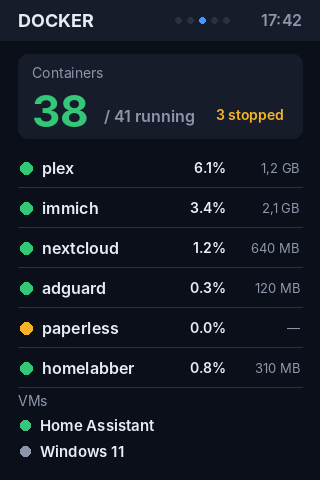
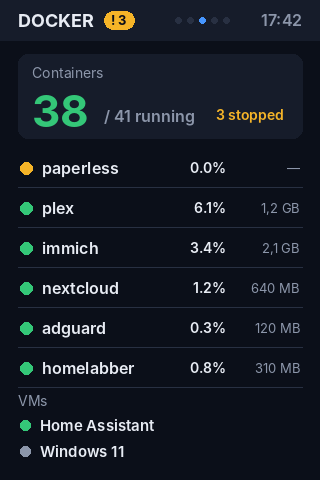
Ekrany LCD: alerty krytyczne z pierwszeństwem, awarie na górze list
- Alert krytyczny barwi nagłówek każdego ekranu na czerwono i pokazuje licznik;
  ostrzeżenia pokazują żółty licznik.
- Ekran Alerty: krytyczne zawsze na górze, wyróżnione, z dopiskiem o przypięciu.
- Dyski, kontenery i VM z awarią na górze listy (opcja sortuj_awarie, domyślnie włączona).
- Makiety: warianty z alertem krytycznym.

Claude-Session: https://claude.ai/code/session_01KdmNeRTRFZRJ18TRbeokR1

diff --git a/app/ekrany/rysuj.py b/app/ekrany/rysuj.py
@@ -30,6 +30,7 @@ TEKSTY = {
            "dzialaja": "działa", "zatrzymane": "zatrzymane", "maszyny": "Maszyny VM",
            "postep": "Postęp", "predkosc": "Prędkość", "koniec": "Koniec za",
            "bledy": "Błędy", "brak_alertow": "Wszystko w porządku", "dni": "d",
+           "krytyczne": "KRYTYCZNY", "przypiety": "Ekran zostaje do usunięcia problemu",
            "wolne": "wolne", "z": "z"},
     "en": {"system": "SYSTEM", "dyski": "DISKS", "docker": "DOCKER", "parity": "PARITY",
            "alerty": "ALERTS", "cpu": "CPU", "ram": "RAM", "swap": "SWAP", "temp": "Temp.",
@@ -39,6 +40,7 @@ TEKSTY = {
            "dzialaja": "running", "zatrzymane": "stopped", "maszyny": "VMs",
            "postep": "Progress", "predkosc": "Speed", "koniec": "Finishes in",
            "bledy": "Errors", "brak_alertow": "All good", "dni": "d",
+           "krytyczne": "CRITICAL", "przypiety": "Stays on until the problem is fixed",
            "wolne": "free", "z": "of"},
 }
 
@@ -62,6 +64,14 @@ PRZYKLADOWE_DANE = {
                ("uwaga", "SMART Disk 3", "realokowane sektory: 8")],
 }
 
+# Wariant z alertem krytycznym (makieta zachowania priorytetowego).
+PRZYKLADOWE_DANE_KRYTYCZNE = dict(PRZYKLADOWE_DANE, alerty=[
+    ("alarm", "Disk 2: wyłączony", "usunięty z array · 19:28"),
+    ("uwaga", "Disk 3: 47°C", "próg 45°C"),
+    ("uwaga", "paperless", "zatrzymany 14:05"),
+    ("uwaga", "SMART Disk 3", "realokowane sektory: 8"),
+])
+
 
 @lru_cache(maxsize=64)
 def font(rozmiar, waga="Regular"):
@@ -77,14 +87,46 @@ def kolor_progu(wartosc, uwaga, alarm):
     return KOLORY["alarm"] if wartosc >= alarm else KOLORY["uwaga"] if wartosc >= uwaga else KOLORY["ok"]
 
 
+WAGA_STANU = {"alarm": 0, "uwaga": 1}
+
+
+def problemy_na_gorze(lista, indeks_stanu, dane):
+    """Gdy włączone (domyślnie), elementy z awarią idą na górę: najpierw alarm, potem uwaga.
+    Sortowanie stabilne, więc reszta zostaje w kolejności z ustawień."""
+    if not dane.get("sortuj_awarie", True):
+        return list(lista)
+    return sorted(lista, key=lambda e: WAGA_STANU.get(e[indeks_stanu], 2))
+
+
+def licznik_alertow(dane):
+    alerty = dane.get("alerty") or []
+    return (sum(1 for a in alerty if a[0] == "alarm"), sum(1 for a in alerty if a[0] == "uwaga"))
+
+
 def naglowek(d, tytul, indeks, dane):
-    d.rectangle((0, 0, W, 40), fill=KOLORY["karta"])
-    d.text((M, 20), tytul, font=font(18, "Bold"), fill=KOLORY["tekst"], anchor="lm")
-    d.text((W - M, 20), dane["godzina"], font=font(16, "SemiBold"), fill=KOLORY["szary"], anchor="rm")
+    krytyczne, ostrzezenia = licznik_alertow(dane)
+    # Alert krytyczny barwi nagłówek każdego ekranu na czerwono.
+    tlo = KOLORY["alarm"] if krytyczne else KOLORY["karta"]
+    d.rectangle((0, 0, W, 40), fill=tlo)
+    f = font(18, "Bold")
+    d.text((M, 20), tytul, font=f, fill=KOLORY["tekst"], anchor="lm")
+    d.text((W - M, 20), dane["godzina"], font=font(16, "SemiBold"),
+           fill=KOLORY["tekst"] if krytyczne else KOLORY["szary"], anchor="rm")
     # kropki widoków (który ekran z pięciu)
     for i in range(5):
         x = W // 2 + 18 + i * 12
-        d.ellipse((x - 3, 17, x + 3, 23), fill=KOLORY["akcent"] if i == indeks else KOLORY["linia"])
+        if krytyczne:
+            kolor = KOLORY["tekst"] if i == indeks else (200, 90, 90)
+        else:
+            kolor = KOLORY["akcent"] if i == indeks else KOLORY["linia"]
+        d.ellipse((x - 3, 17, x + 3, 23), fill=kolor)
+    # Licznik: biały z liczbą krytycznych albo żółty z liczbą ostrzeżeń.
+    if krytyczne or ostrzezenia:
+        x0 = M + d.textlength(tytul, font=f) + 10
+        tekst = f"! {krytyczne or ostrzezenia}"
+        szer = d.textlength(tekst, font=font(13, "Bold")) + 14
+        d.rounded_rectangle((x0, 11, x0 + szer, 29), radius=9, fill=KOLORY["tekst"] if krytyczne else KOLORY["uwaga"])
+        d.text((x0 + szer / 2, 20), tekst, font=font(13, "Bold"), fill=KOLORY["alarm"] if krytyczne else KOLORY["tlo"], anchor="mm")
 
 
 def pasek(d, x, y, szer, wys, procent, kolor):
@@ -184,7 +226,7 @@ def ekran_dyski(t, dane):
     aktywne = sum(1 for x in dane["dyski"] if x[3])
     d.text((M, 222), f"{aktywne} {t['aktywne']} · {len(dane['dyski']) - aktywne} {t['uspione']}",
            font=font(13), fill=KOLORY["szary"])
-    for i, (nazwa, temp, smart, aktywny) in enumerate(dane["dyski"]):
+    for i, (nazwa, temp, smart, aktywny) in enumerate(problemy_na_gorze(dane["dyski"], 2, dane)):
         y = 240 + i * 36
         d.line((M, y + 34, W - M, y + 34), fill=KOLORY["linia"])
         d.ellipse((M + 2, y + 11, M + 14, y + 23), fill=KOLORY[smart] if aktywny else KOLORY["linia"])
@@ -207,7 +249,7 @@ def ekran_docker(t, dane):
     d.text((M + 14, 84), str(dz), font=font(44, "Bold"), fill=KOLORY["ok"])
     d.text((M + 86, 106), f"/ {wsz} {t['dzialaja']}", font=font(16, "SemiBold"), fill=KOLORY["szary"])
     d.text((W - 2 * M, 106), f"{wsz - dz} {t['zatrzymane']}", font=font(14, "SemiBold"), fill=KOLORY["uwaga"], anchor="ra")
-    for i, (nazwa, stan, cpu, ram) in enumerate(dane["kontenery"]):
+    for i, (nazwa, stan, cpu, ram) in enumerate(problemy_na_gorze(dane["kontenery"], 1, dane)):
         y = 150 + i * 40
         d.line((M, y + 37, W - M, y + 37), fill=KOLORY["linia"])
         d.ellipse((M + 2, y + 12, M + 14, y + 24), fill=KOLORY[stan])
@@ -216,7 +258,7 @@ def ekran_docker(t, dane):
         d.text((W - M - 76, y + 18), f"{liczba(cpu, t['_j'])}%", font=font(14, "SemiBold"), fill=KOLORY["tekst"], anchor="rm")
     y = 392
     d.text((M, y), t["maszyny"], font=font(14), fill=KOLORY["szary"])
-    for i, (nazwa, stan) in enumerate(dane["vm"]):
+    for i, (nazwa, stan) in enumerate(problemy_na_gorze(dane["vm"], 1, dane)):
         yy = y + 24 + i * 26
         d.ellipse((M + 2, yy + 4, M + 12, yy + 14), fill=KOLORY[stan])
         d.text((M + 22, yy + 9), nazwa, font=font(15, "SemiBold"), fill=KOLORY["tekst"], anchor="lm")
@@ -242,18 +284,31 @@ def ekran_parity(t, dane):
 
 def ekran_alerty(t, dane, puste=False):
     img = Image.new("RGB", (W, H), KOLORY["tlo"]); d = ImageDraw.Draw(img)
-    naglowek(d, t["alerty"], 4, dane)
+    naglowek(d, t["alerty"], 4, dane if not puste else dict(dane, alerty=[]))
     if puste:
         d.ellipse((W // 2 - 50, 170, W // 2 + 50, 270), outline=KOLORY["ok"], width=8)
         d.line([(W // 2 - 24, 222), (W // 2 - 6, 240), (W // 2 + 26, 204)], fill=KOLORY["ok"], width=9)
         d.text((W // 2, 300), t["brak_alertow"], font=font(20, "SemiBold"), fill=KOLORY["tekst"], anchor="mm")
         return img
-    for i, (poziom, tytul, opis) in enumerate(dane["alerty"]):
-        y = 56 + i * 82
-        karta(d, M, y, W - 2 * M, 72)
-        d.rounded_rectangle((M, y, M + 8, y + 72), radius=4, fill=KOLORY[poziom])
-        d.text((M + 20, y + 14), tytul, font=font(19, "Bold"), fill=KOLORY[poziom])
-        d.text((M + 20, y + 44), opis, font=font(14), fill=KOLORY["szary"])
+    # Krytyczne zawsze na górze, potem ostrzeżenia; mieszczą się 4 karty.
+    alerty = sorted(dane["alerty"], key=lambda a: 0 if a[0] == "alarm" else 1)[:4]
+    krytyczne = any(a[0] == "alarm" for a in alerty)
+    y = 54
+    for poziom, tytul, opis in alerty:
+        wys = 86 if poziom == "alarm" else 72
+        if poziom == "alarm":
+            d.rounded_rectangle((M, y, W - M, y + wys), radius=10, fill=(64, 18, 22), outline=KOLORY["alarm"], width=2)
+            d.text((M + 14, y + 12), t["krytyczne"], font=font(11, "Bold"), fill=KOLORY["alarm"])
+            d.text((M + 14, y + 28), tytul, font=font(20, "Bold"), fill=KOLORY["tekst"])
+            d.text((M + 14, y + 58), opis, font=font(14), fill=(230, 180, 180))
+        else:
+            karta(d, M, y, W - 2 * M, wys)
+            d.rounded_rectangle((M, y, M + 8, y + wys), radius=4, fill=KOLORY[poziom])
+            d.text((M + 20, y + 14), tytul, font=font(19, "Bold"), fill=KOLORY[poziom])
+            d.text((M + 20, y + 44), opis, font=font(14), fill=KOLORY["szary"])
+        y += wys + 8
+    if krytyczne:
+        d.text((W // 2, H - M - 6), t["przypiety"], font=font(12, "SemiBold"), fill=KOLORY["szary"], anchor="mm")
     return img
 
 
@@ -263,4 +318,6 @@ def wszystkie(jezyk="pl", dane=None):
     t = dict(TEKSTY[jezyk], _j=jezyk)
     return {"1-system": ekran_system(t, dane), "2-dyski": ekran_dyski(t, dane), "3-docker": ekran_docker(t, dane),
             "4-parity": ekran_parity(t, dane), "5-alerty": ekran_alerty(t, dane),
-            "5b-alerty-puste": ekran_alerty(t, dane, True)}
+            "5b-alerty-puste": ekran_alerty(t, dane, True),
+            "5c-alerty-krytyczne": ekran_alerty(t, PRZYKLADOWE_DANE_KRYTYCZNE),
+            "1c-system-krytyczny": ekran_system(t, dict(PRZYKLADOWE_DANE_KRYTYCZNE, **{k: v for k, v in dane.items() if k != "alerty"}))}

diff --git a/tests/test_aplikacja.py b/tests/test_aplikacja.py
@@ -158,6 +158,13 @@ def test_temperatura_cpu_calego_procesora_nie_rdzenia(tmp_path: Path):
     assert temperatura_cpu(tmp_path) == 70.0  # bez etykiety: pierwszy numerycznie, nie temp10
 
 
+def test_problemy_na_gorze():
+    from app.ekrany.rysuj import problemy_na_gorze
+    lista = [("a", "ok"), ("b", "uwaga"), ("c", "ok"), ("d", "alarm")]
+    assert [x[0] for x in problemy_na_gorze(lista, 1, {})] == ["d", "b", "a", "c"]
+    assert [x[0] for x in problemy_na_gorze(lista, 1, {"sortuj_awarie": False})] == ["a", "b", "c", "d"]
+
+
 # --- różnice obrazu ---
 def test_brak_zmian_nic_nie_wysyla():
     a = Image.new("RGB", (320, 480))
